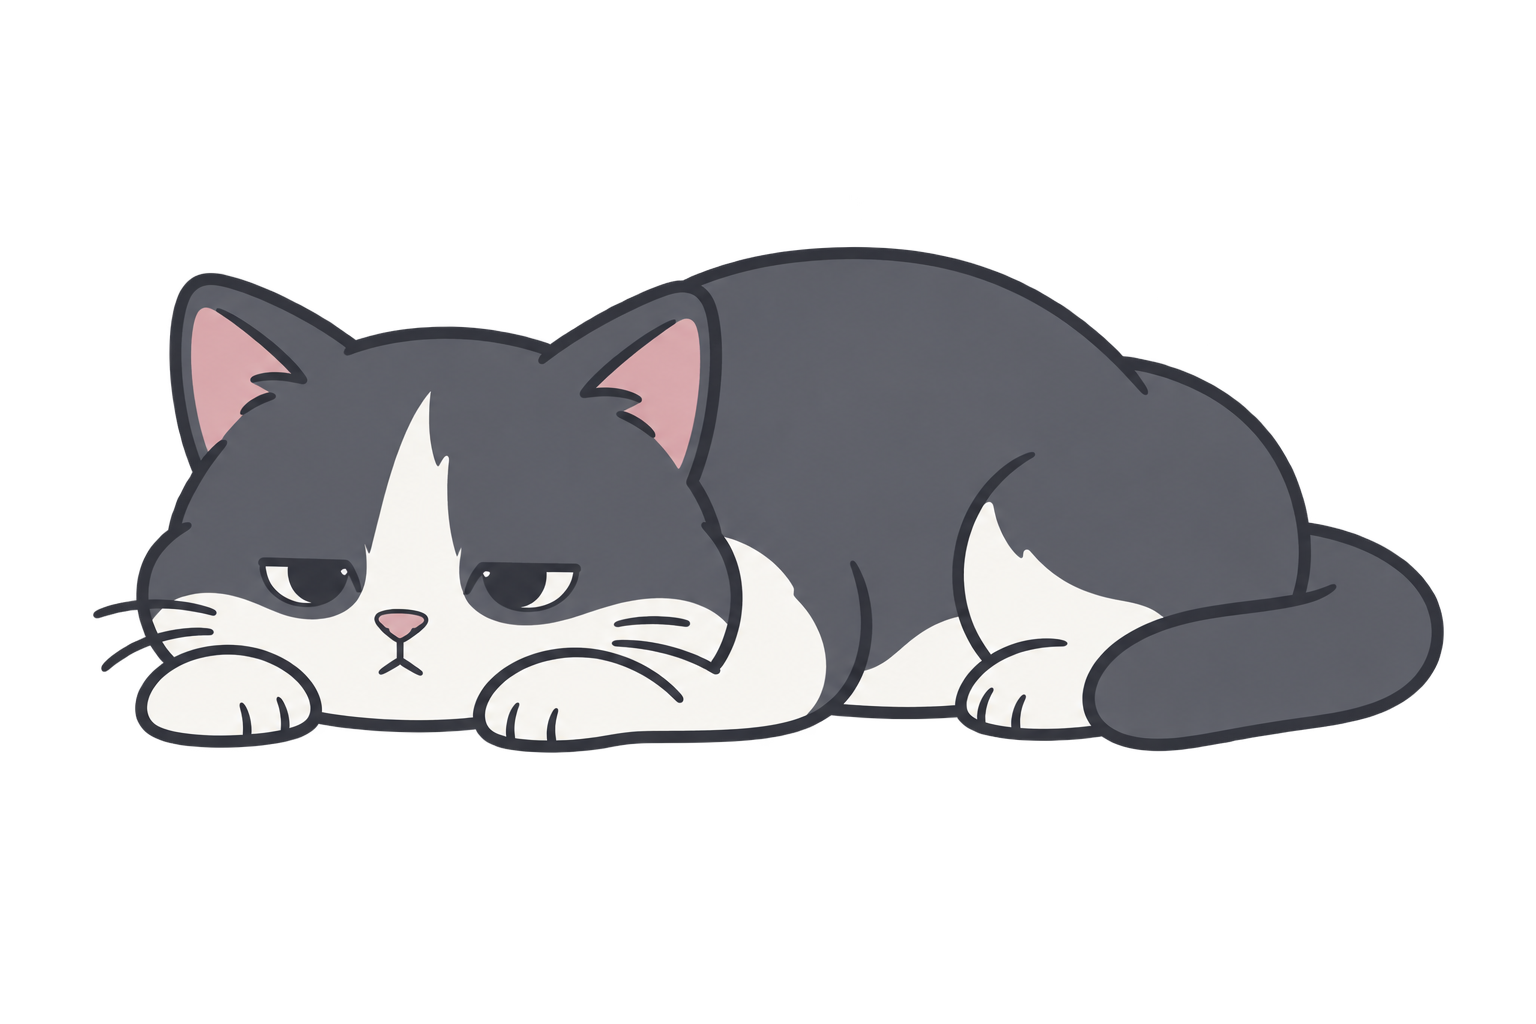
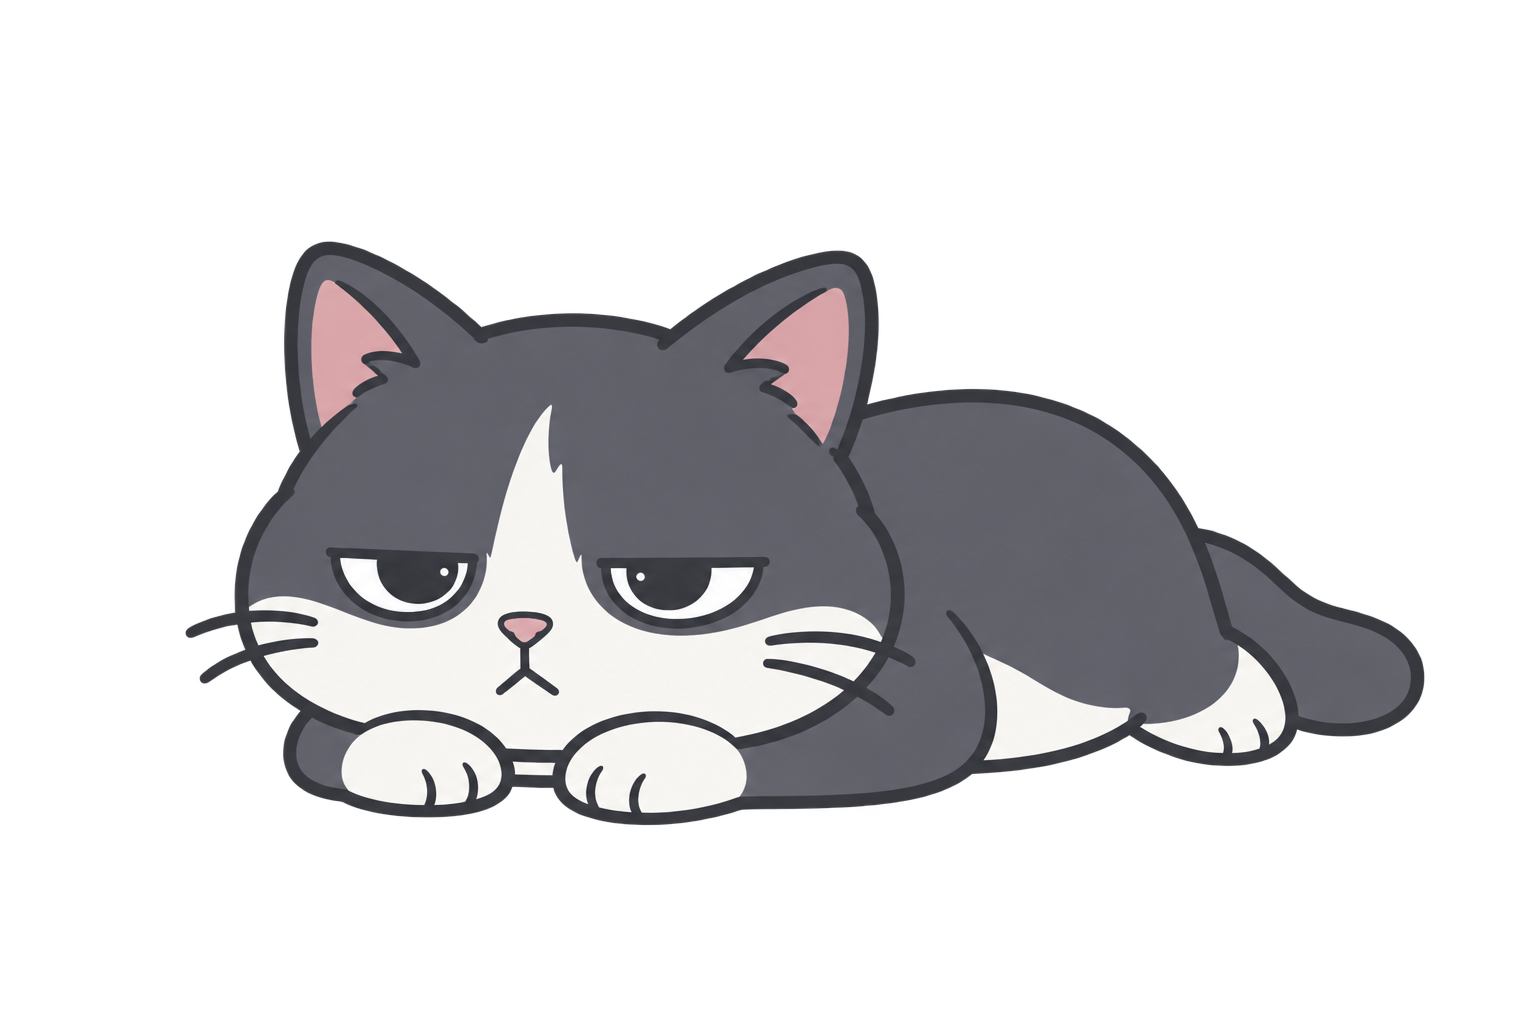
V4-2-align-goodcat-states-with-approved-character

Changed region(s): [[0.0625, 0.2188, 0.9375, 0.8125]]

diff --git a/frontend/assets/goodcat/README.md b/frontend/assets/goodcat/README.md
@@ -2,10 +2,11 @@
 
 These five original gray-and-white GoodCat illustrations were generated for
 this repository with OpenAI's built-in image generation on 2026-08-26. The
-approved idle illustration is the identity anchor: low sleepy eyelids express
-the cat's usual lazy mood. Active states use restrained, natural feline body
-language instead of human-like gestures. No third-party character artwork is
-included in these files.
+approved idle illustration is the identity anchor: an oversized rounded head,
+compact small body, short paws and low sleepy eyelids express the cat's usual
+world-weary mood. Active states preserve those proportions and use restrained,
+natural feline body language instead of human-like gestures. No third-party
+character artwork is included in these files.
 
 Use of the generated assets remains subject to the applicable OpenAI service
 terms and this repository's license. Keep this provenance note with the files.

diff --git a/docs/CHANGELOG.md b/docs/CHANGELOG.md
@@ -3,8 +3,9 @@
 ## 2026-08-26 — V4-2 GoodCat theme and shared components
 
 - Added five original flat gray-and-white GoodCat state illustrations with
-  real alpha transparency, sleepy idle eyes, restrained feline body language
-  and repository-local provenance documentation.
+  real alpha transparency, a consistent big-head/small-body identity, sleepy
+  idle eyes, restrained feline body language and repository-local provenance
+  documentation.
 - Added the approved light neutral palette through native Streamlit theme
   configuration without external fonts or a programming-language migration.
 - Added reusable GoodCat companion and beginner explanation cards that keep
